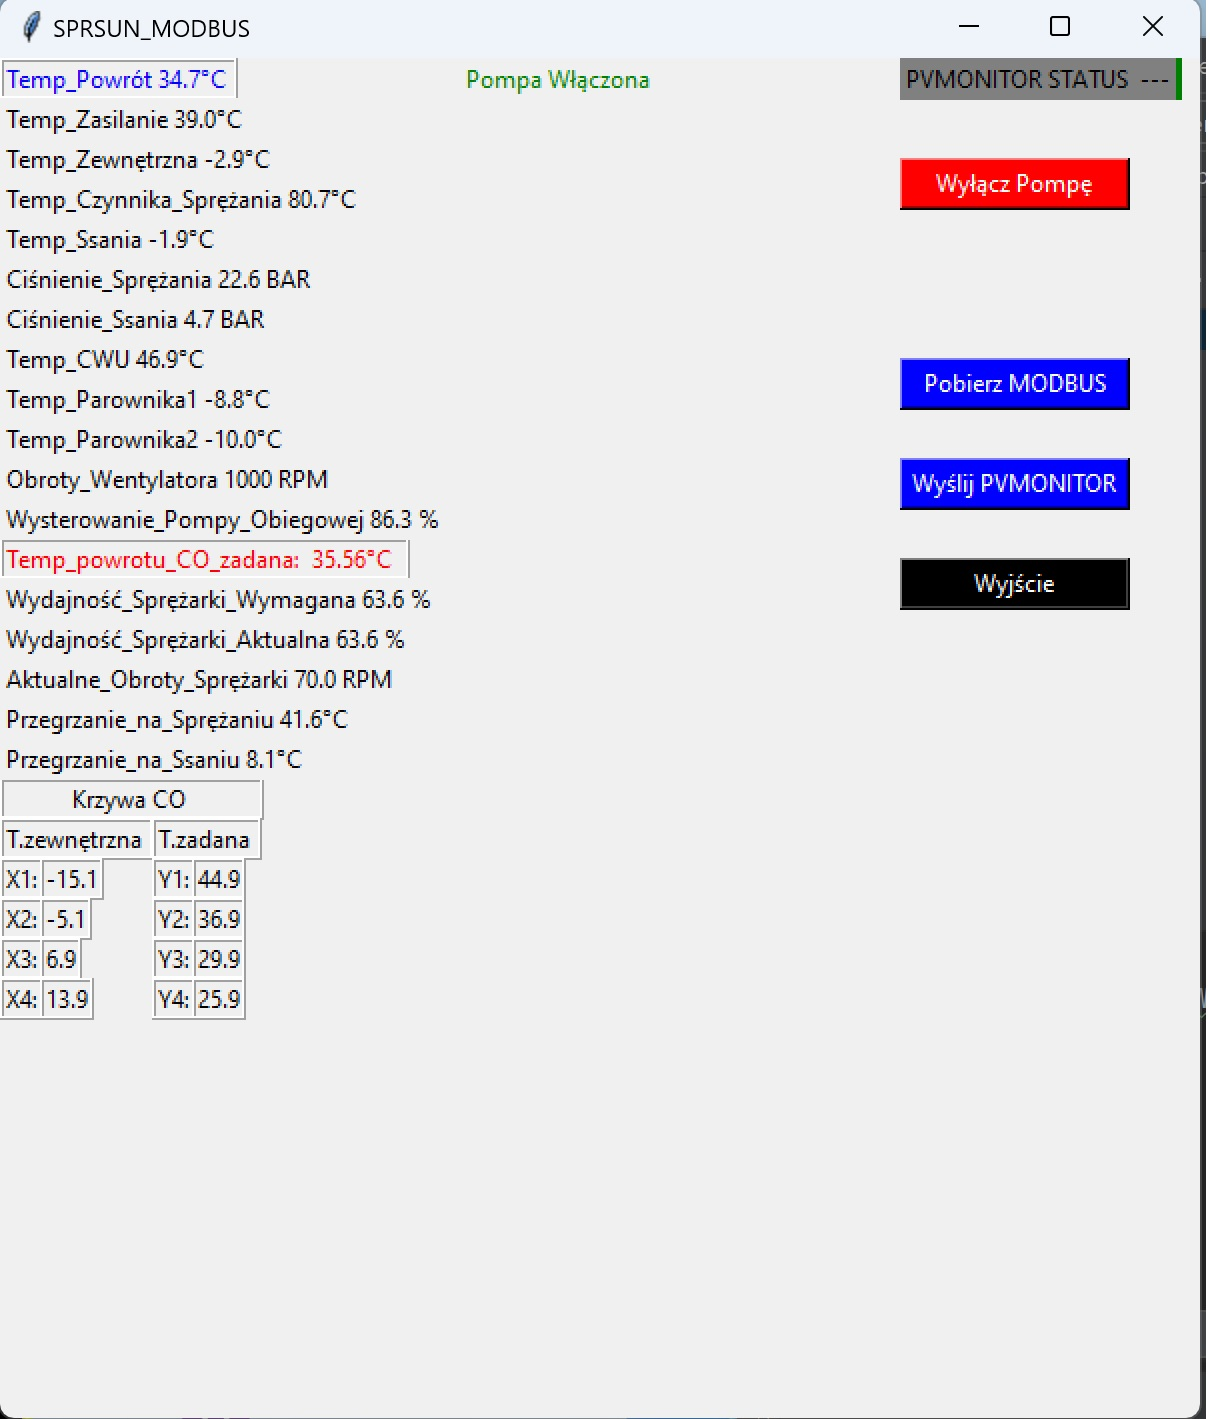
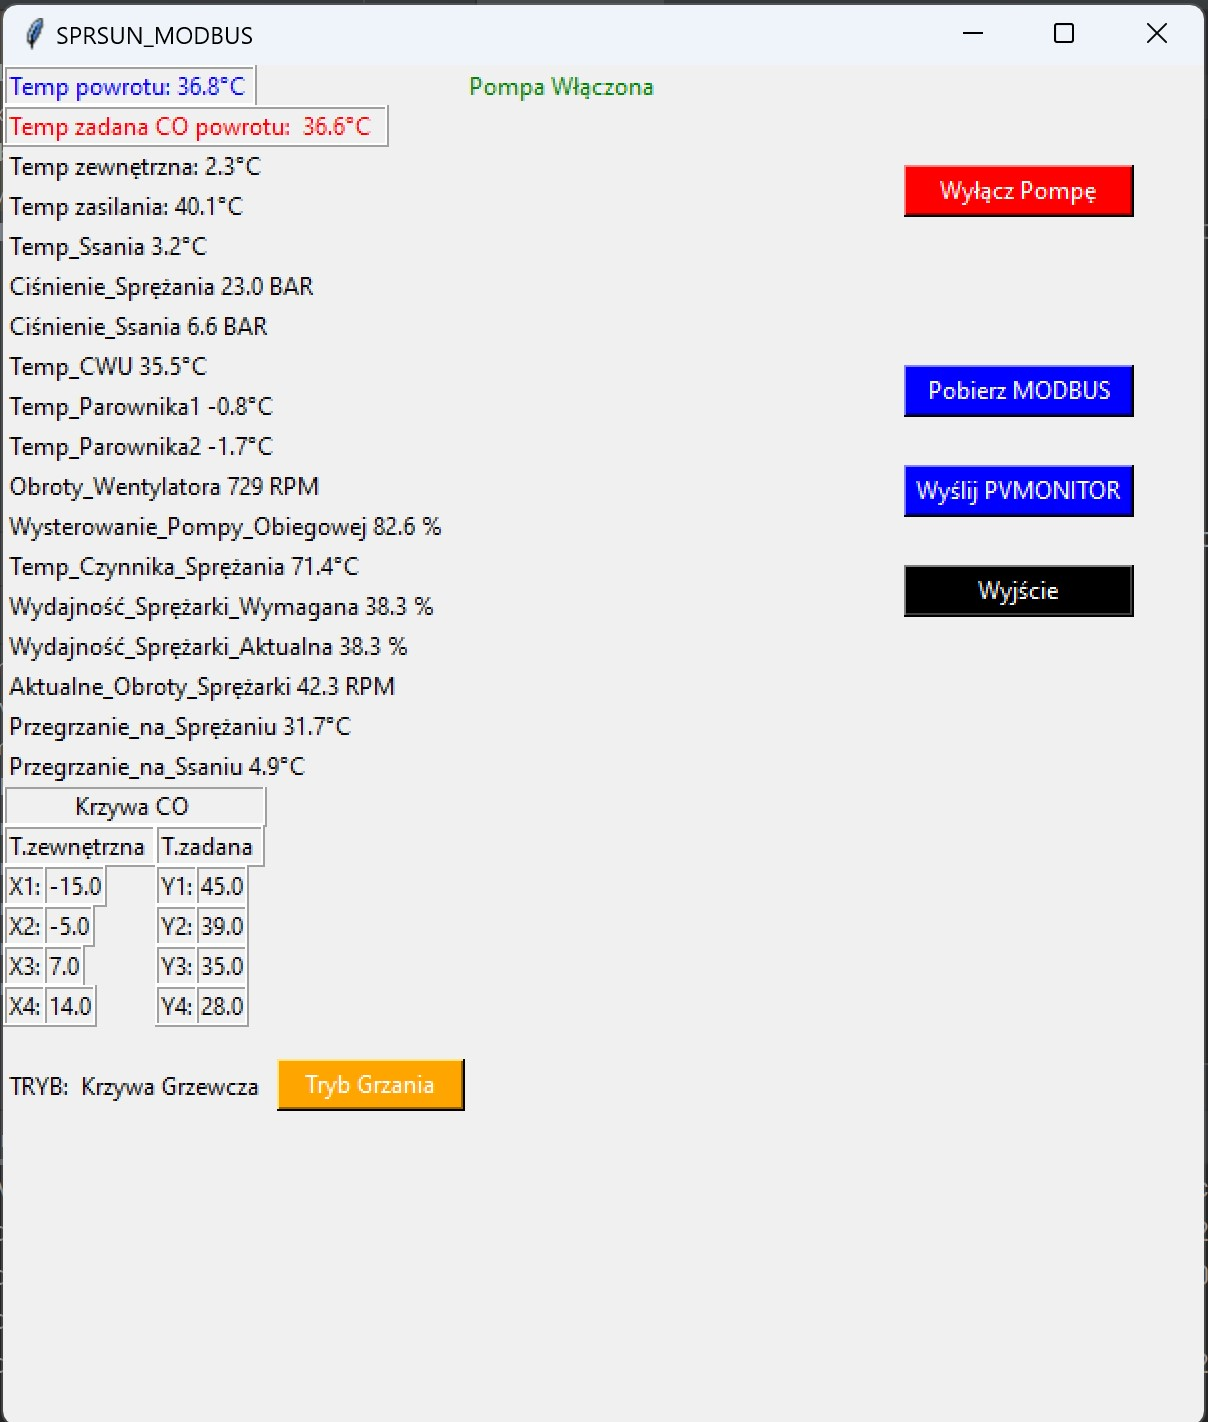
obsługa combox i list rozwijanych, zdarzenia tkinter z listy rozwjanej
def funkcjaPrzycisku5():

Changed region(s): [[0.0, 0.0, 1.0, 1.0], [0.7351, 0.2481, 0.9495, 0.4341], [0.0, 0.9922, 0.0306, 1.0]]

diff --git a/main.py b/main.py
@@ -378,11 +378,10 @@ def funkcjaPrzycisku4():
 
 def funkcjaPrzycisku5():
 
-
     # Creating tkinter window and set dimensions
     window = tk.Tk()
-    window.title('Combobox')
-    window.geometry('500x250')
+    window.title('Tryb Grzania')
+    window.geometry('400x100')
 
     def callbackFunc(event):
         tryb_pracy = event.widget.get()
